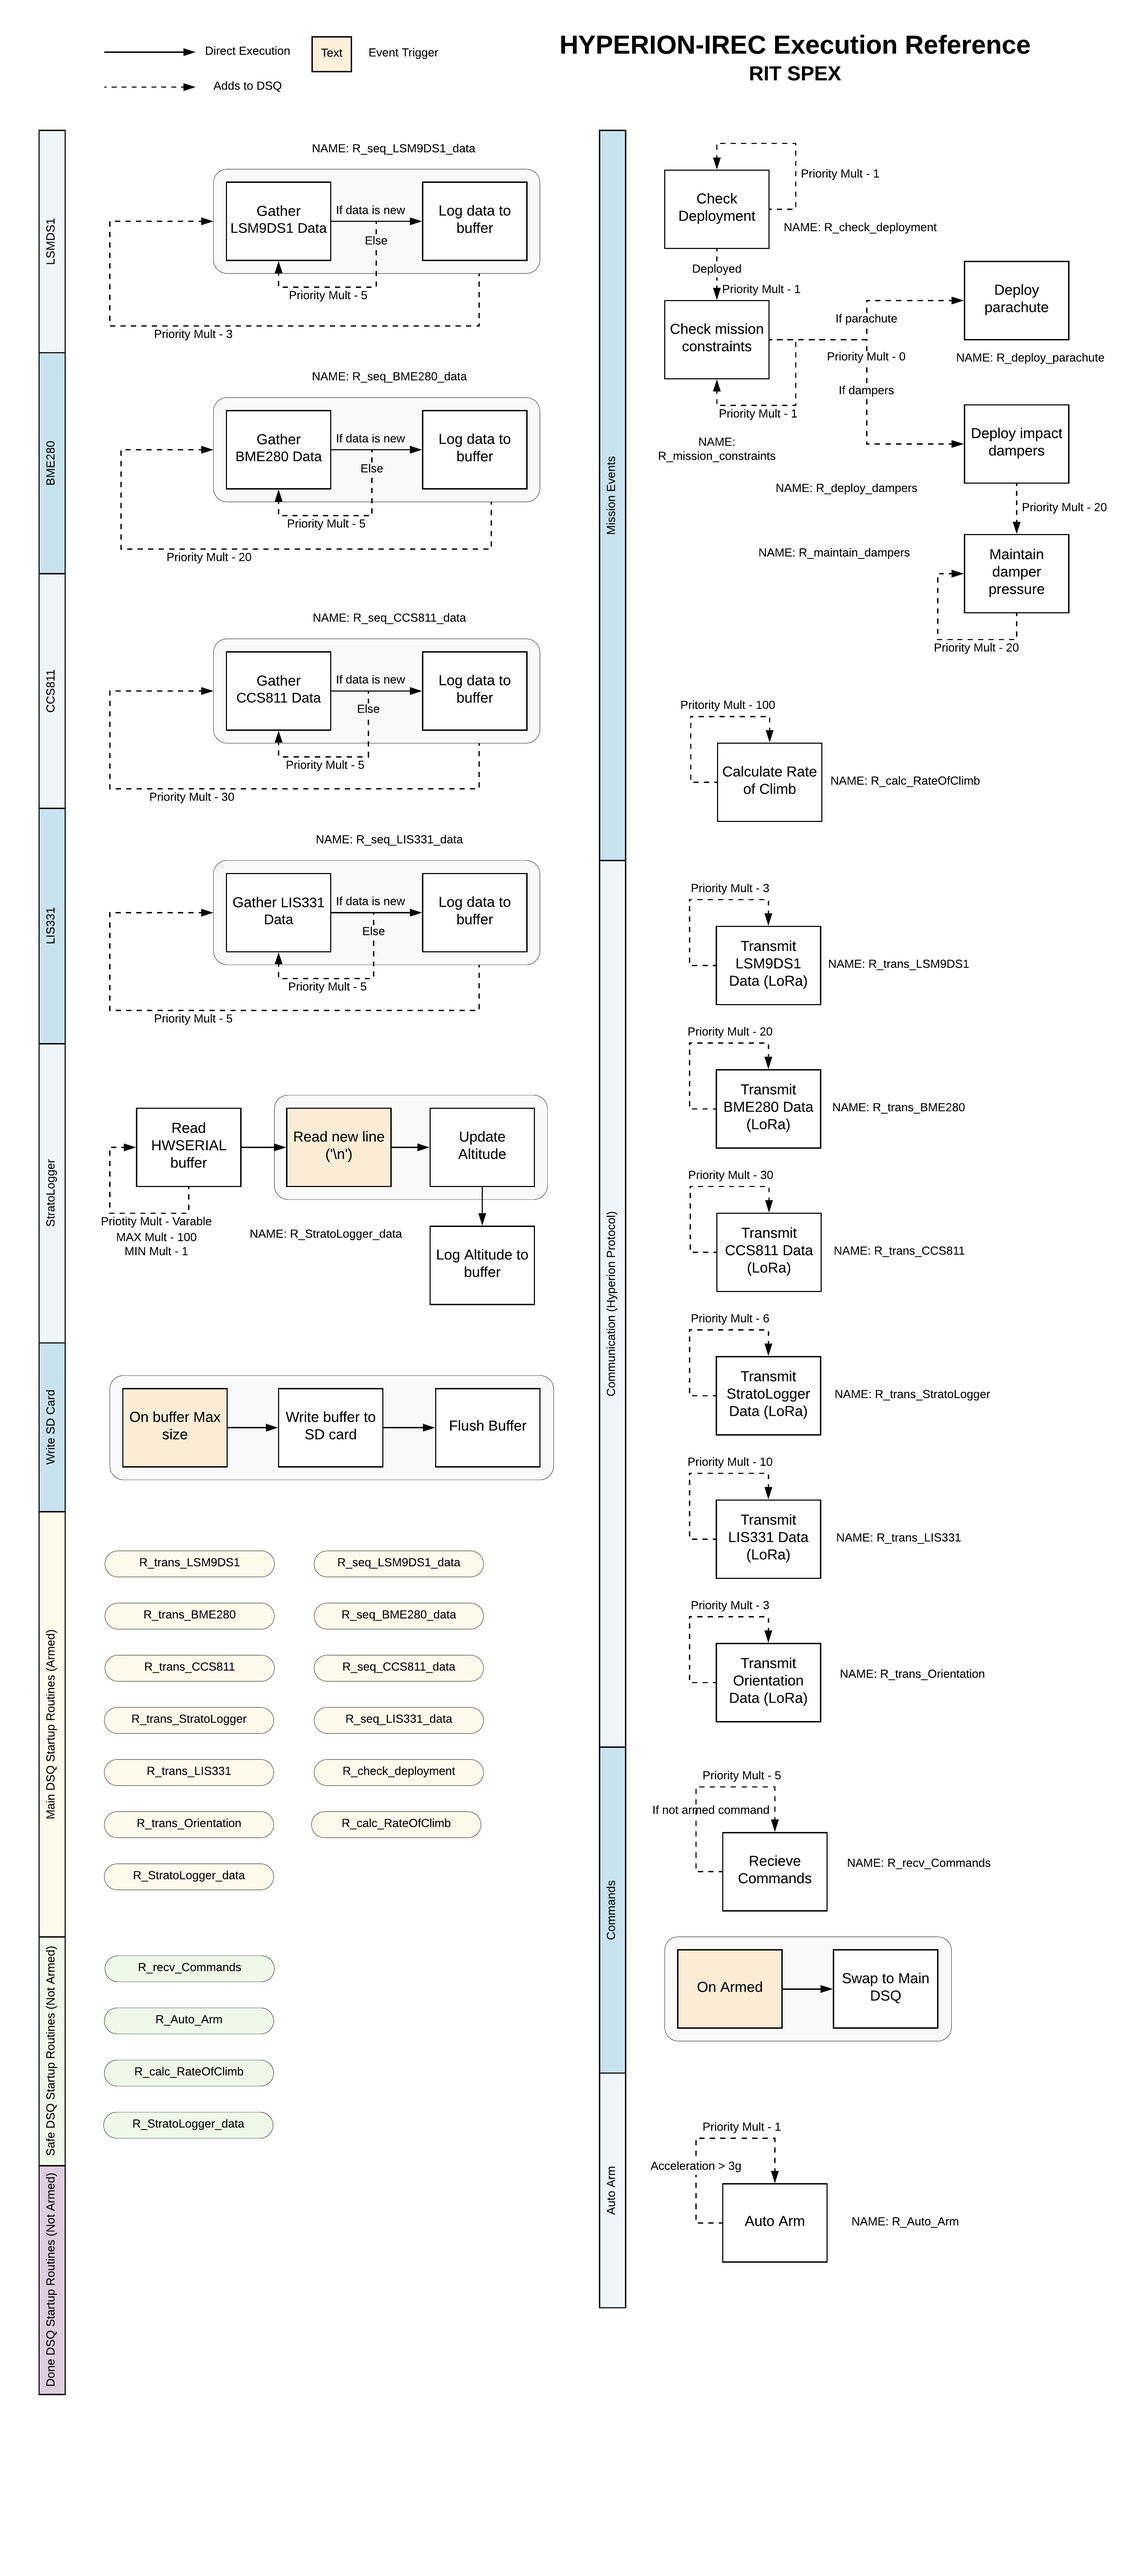
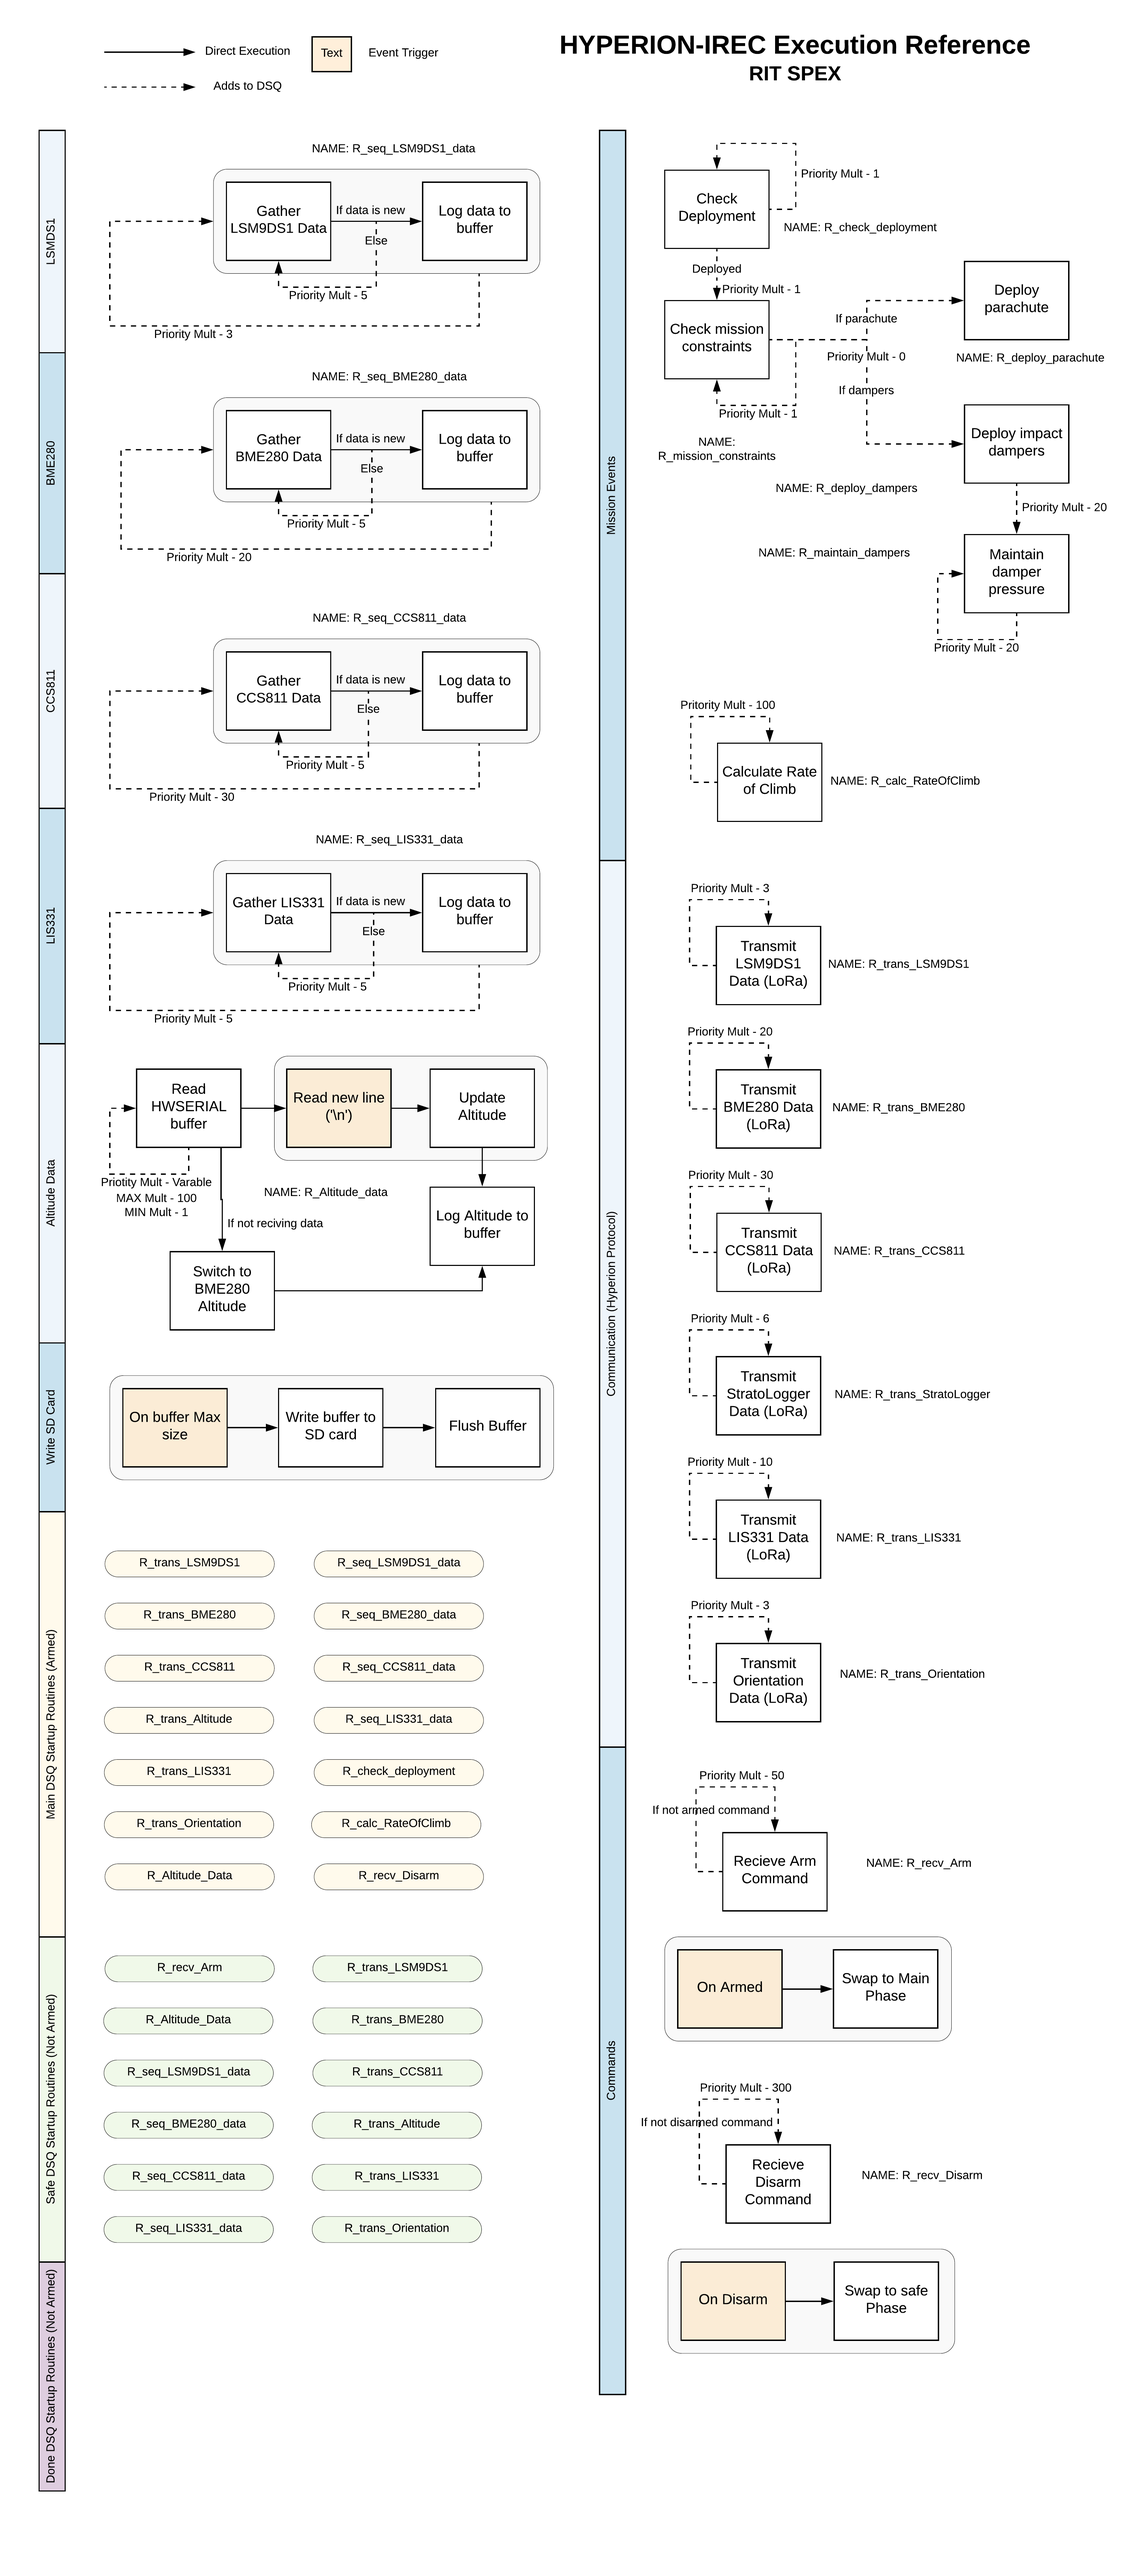
Updated deployment configuration

diff --git a/IREC-Hyperion System/src/main.cpp b/IREC-Hyperion System/src/main.cpp
@@ -18,16 +18,16 @@ DSQ dsq(DSQ_MAIN_CAP);// Dynamic Scheduling Queue (DSQ)
 void fill_main_startup(){
   //TODO
   // Add startup routines into the dsq
-  dsq.add_routine(0, 3, R_trans_LSM9DS1);
-  dsq.add_routine(0, 20, R_trans_BME280);
-  dsq.add_routine(0, 30, R_trans_CCS811);
-  dsq.add_routine(0, 3, R_seq_LSM9DS1_data);
-  dsq.add_routine(0, 20, R_seq_BME280_data);
-  dsq.add_routine(0, 30, R_seq_CCS811_data);
-  dsq.add_routine(0, 3, R_seq_LIS331_data);
-  dsq.add_routine(0, 100, R_calc_RateOfClimb);
-  dsq.add_routine(0, 10, R_StratoLogger_data);
-  //dsq.add_routine(0, 1, R_check_deployment);
+  //dsq.add_routine(0, 3, R_trans_LSM9DS1);
+  //dsq.add_routine(0, 20, R_trans_BME280);
+  //dsq.add_routine(0, 30, R_trans_CCS811);
+  //dsq.add_routine(0, 3, R_seq_LSM9DS1_data);
+  //dsq.add_routine(0, 20, R_seq_BME280_data);
+  //dsq.add_routine(0, 30, R_seq_CCS811_data);
+  //dsq.add_routine(0, 3, R_seq_LIS331_data);
+  //dsq.add_routine(0, 100, R_calc_RateOfClimb);
+  //dsq.add_routine(0, 10, R_StratoLogger_data);
+  dsq.add_routine(0, 1, R_check_deployment);
 }
 
 /**
@@ -36,10 +36,10 @@ void fill_main_startup(){
 void fill_safe_startup(){
   //TODO
   //dsq.add_routine(0, 5, R_recv_Commands);
-  dsq.add_routine(0, 1, R_Auto_Arm);
-  dsq.add_routine(0, 100, R_calc_RateOfClimb);
+  //dsq.add_routine(0, 1, R_Auto_Arm);
+  //dsq.add_routine(0, 100, R_calc_RateOfClimb);
   dsq.add_routine(0, 10, R_StratoLogger_data);
-  dsq.add_routine(0, 3, R_seq_LIS331_data);
+  //dsq.add_routine(0, 3, R_seq_LIS331_data);
 }
 
 /**
@@ -86,7 +86,7 @@ void setup() {
   init_LIS331();
   init_StratoLogger();
   init_SD();
-  //init_deploy_pins(); // Initilize pins which deployment switches are attached.
+  init_deploy_pins(); // Initilize pins which deployment switches are attached.
 
   // Add Default routine to the dsq
   dsq.set_default(1, R_Default);

diff --git a/IREC-Hyperion System/lib/SparkFun_LIS331_Arduino_Library/SparkFun_LIS331.cpp b/IREC-Hyperion System/lib/SparkFun_LIS331_Arduino_Library/SparkFun_LIS331.cpp
@@ -375,10 +375,10 @@ void LIS331::LIS331_write(uint8_t reg_address, uint8_t *data, uint8_t len)
   {
     // SPI write handling code
     digitalWrite(CSPin, LOW);
-    SPI.transfer(reg_address | 0x40);
+    SPI1.transfer(reg_address | 0x40);
     for (int i=0; i<len; i++)
     {
-      SPI.transfer(data[i]);
+      SPI1.transfer(data[i]);
     }
     digitalWrite(CSPin, HIGH);
   }
@@ -402,10 +402,10 @@ void LIS331::LIS331_read(uint8_t reg_address, uint8_t *data, uint8_t len)
   {
     // SPI read handling code
     digitalWrite(CSPin, LOW);
-    SPI.transfer(reg_address | 0xC0);
+    SPI1.transfer(reg_address | 0xC0);
     for (int i=0; i<len; i++)
     {
-      data[i] = SPI.transfer(0);
+      data[i] = SPI1.transfer(0);
     }
     digitalWrite(CSPin, HIGH);
   }

diff --git a/IREC-Hyperion System/src/Routines.cpp b/IREC-Hyperion System/src/Routines.cpp
@@ -49,6 +49,7 @@ void R_check_deployment(){
   } else if (open_cnt == 2){
     // Anomaly case where 2 switches are open and 2 switches are still
     // closed.
+    Serial.println(get_rate_of_climb());
     if (get_rate_of_climb() < DEPLOYMENT_ERROR_SPEED){ // moving faster than 20 m/s down
 
       set_deployment(); // Set time deployed
@@ -61,7 +62,7 @@ void R_check_deployment(){
 }
 
 void R_mission_constraints(){
-
+  Serial.println("Deployed");
   // TODO
   // if not parachute
   // Check to see if deployment delta is > 3000 (3 seconds)

diff --git a/IREC-Hyperion System/src/IRECHYPERION.h b/IREC-Hyperion System/src/IRECHYPERION.h
@@ -51,10 +51,10 @@
 // Maximum buffer capacity
 #define BUFFER_CAP 500
 
-#define DEPLOY_SWITCH_01 0 // change
-#define DEPLOY_SWITCH_02 0 // change
-#define DEPLOY_SWITCH_03 0 // change
-#define DEPLOY_SWITCH_04 0 // change
+#define DEPLOY_SWITCH_01 25 // change
+#define DEPLOY_SWITCH_02 26 // change
+#define DEPLOY_SWITCH_03 27 // change
+#define DEPLOY_SWITCH_04 28 // change
 
 //////////////////////
 // Global Varables //

diff --git a/IREC-Hyperion System/src/Mission_Utils.cpp b/IREC-Hyperion System/src/Mission_Utils.cpp
@@ -19,10 +19,10 @@ float ROC_var = 0; // Rate of climb
  */
 int init_deploy_pins(){
 
-  pinMode(DEPLOY_SWITCH_01, OUTPUT);
-  pinMode(DEPLOY_SWITCH_02, OUTPUT);
-  pinMode(DEPLOY_SWITCH_03, OUTPUT);
-  pinMode(DEPLOY_SWITCH_04, OUTPUT);
+  pinMode(DEPLOY_SWITCH_01, INPUT);
+  pinMode(DEPLOY_SWITCH_02, INPUT);
+  pinMode(DEPLOY_SWITCH_03, INPUT);
+  pinMode(DEPLOY_SWITCH_04, INPUT);
 
   return 0; // Success
 }
